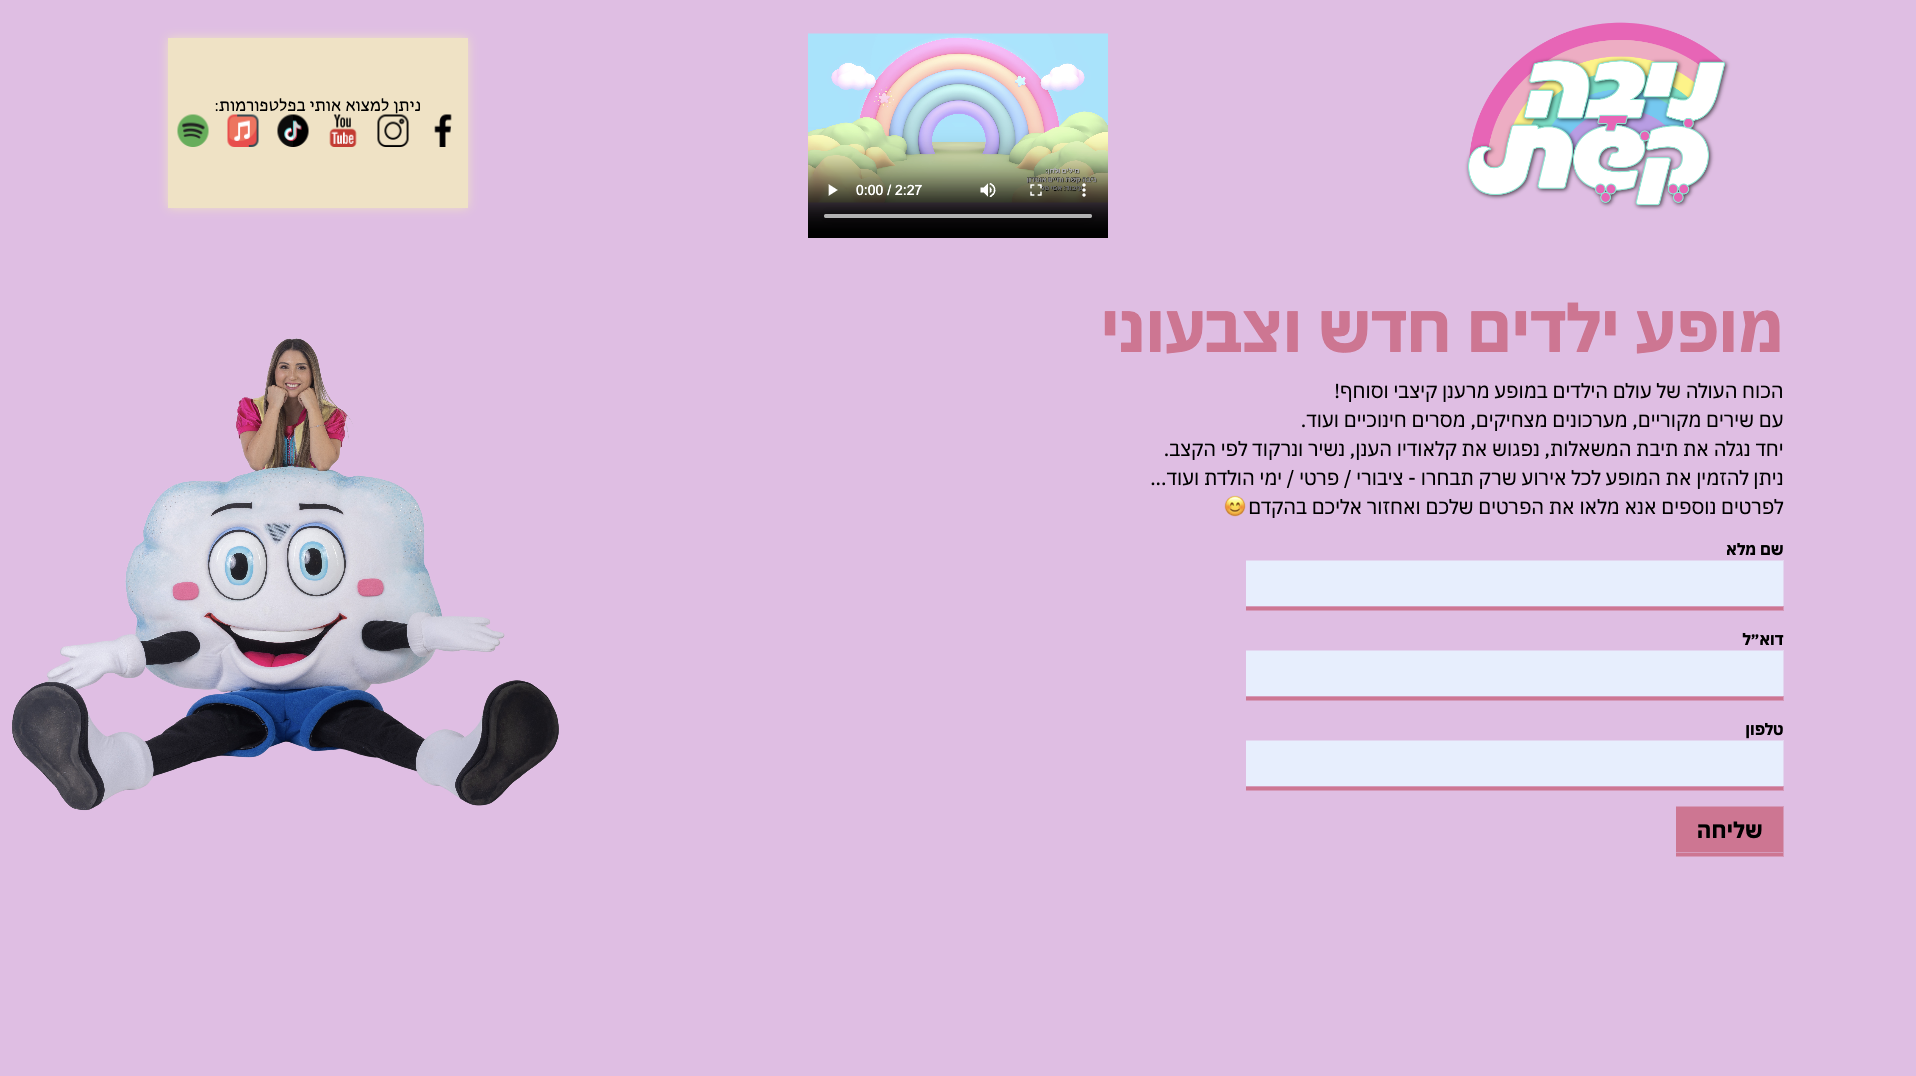
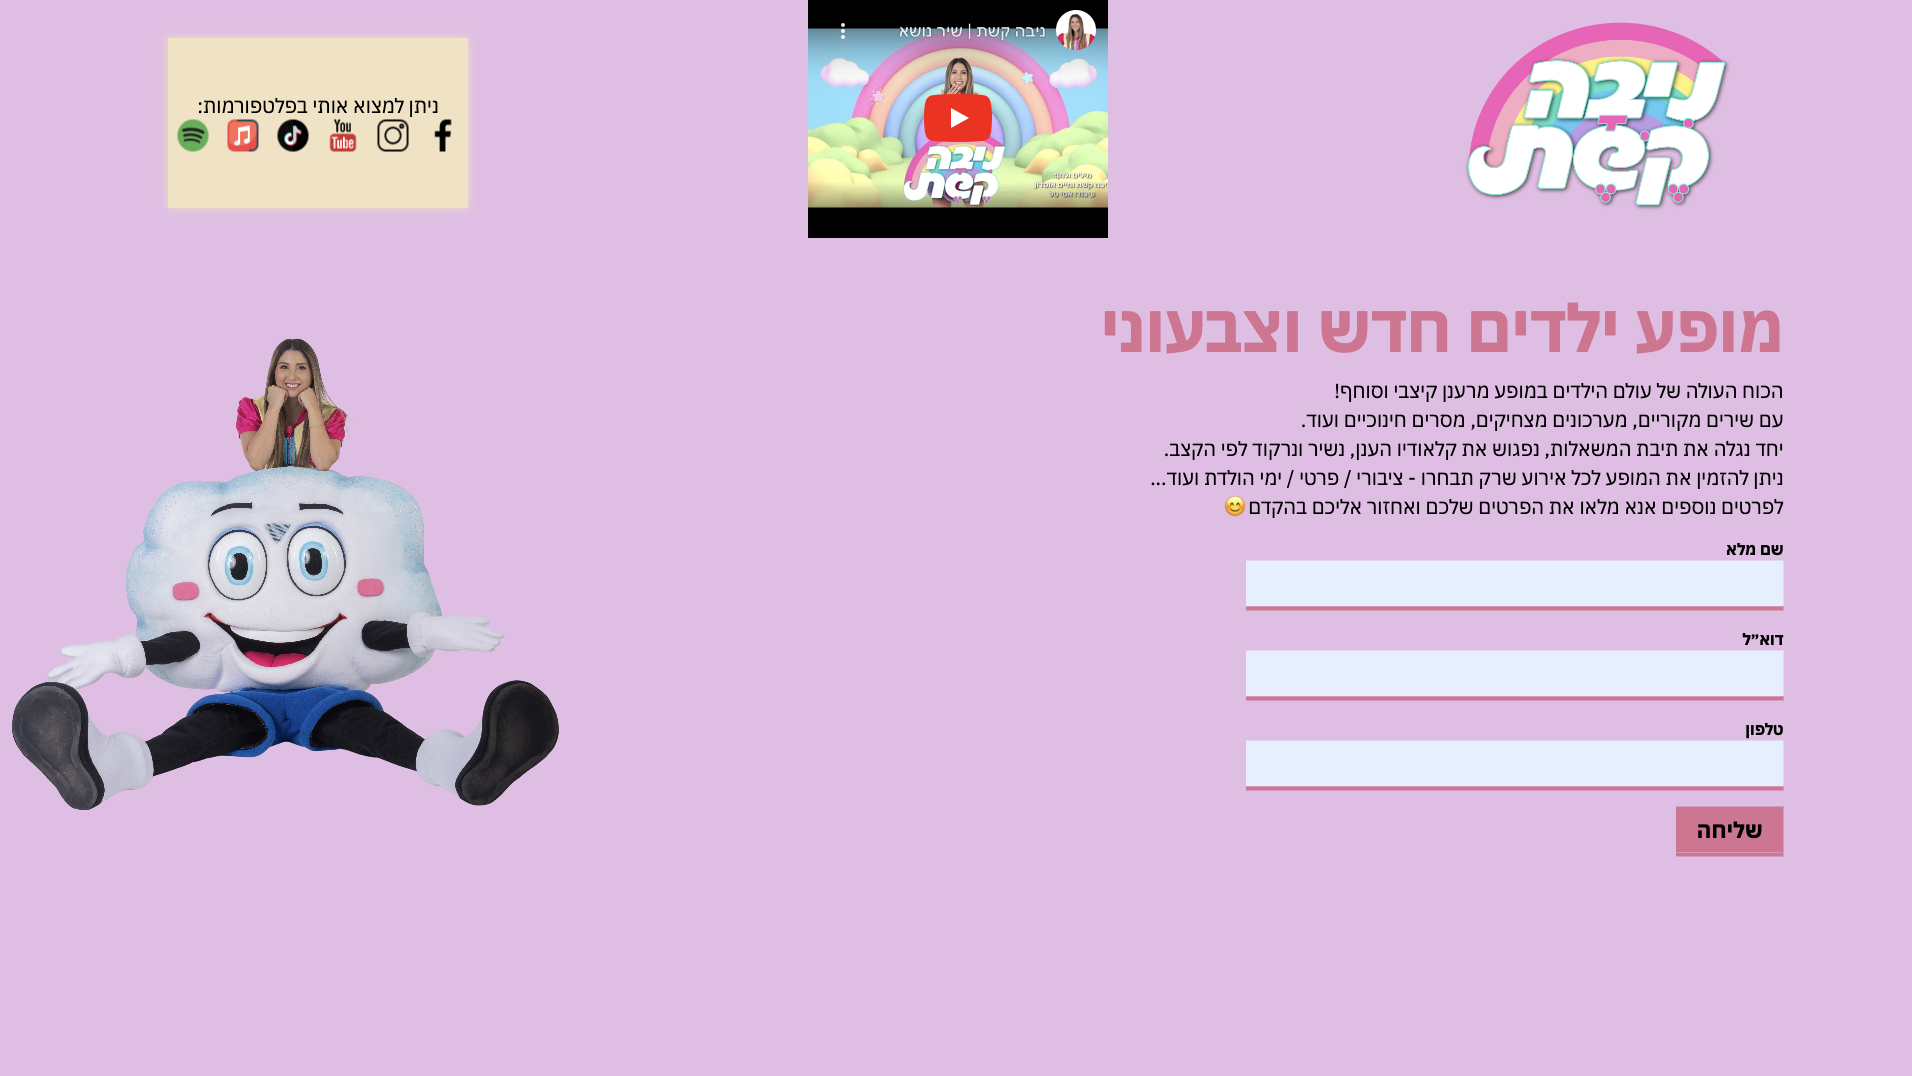
add

diff --git a/projects/landingPage8/projectPage8.html b/projects/landingPage8/projectPage8.html
@@ -21,9 +21,6 @@
             </div>
 
             <div id="clip">
-                <!-- <video controls>
-                    <source src="imagesLandingPage8/nivaClip.mp4" type="video/mp4">
-                </video> -->
                 <iframe src="https://www.youtube.com/embed/APbwSCYgdBc?si=py4yt42ZHdZdVk2S" title="YouTube video player"
                     frameborder="0"
                     allow="accelerometer; autoplay; clipboard-write; encrypted-media; gyroscope; picture-in-picture; web-share"
